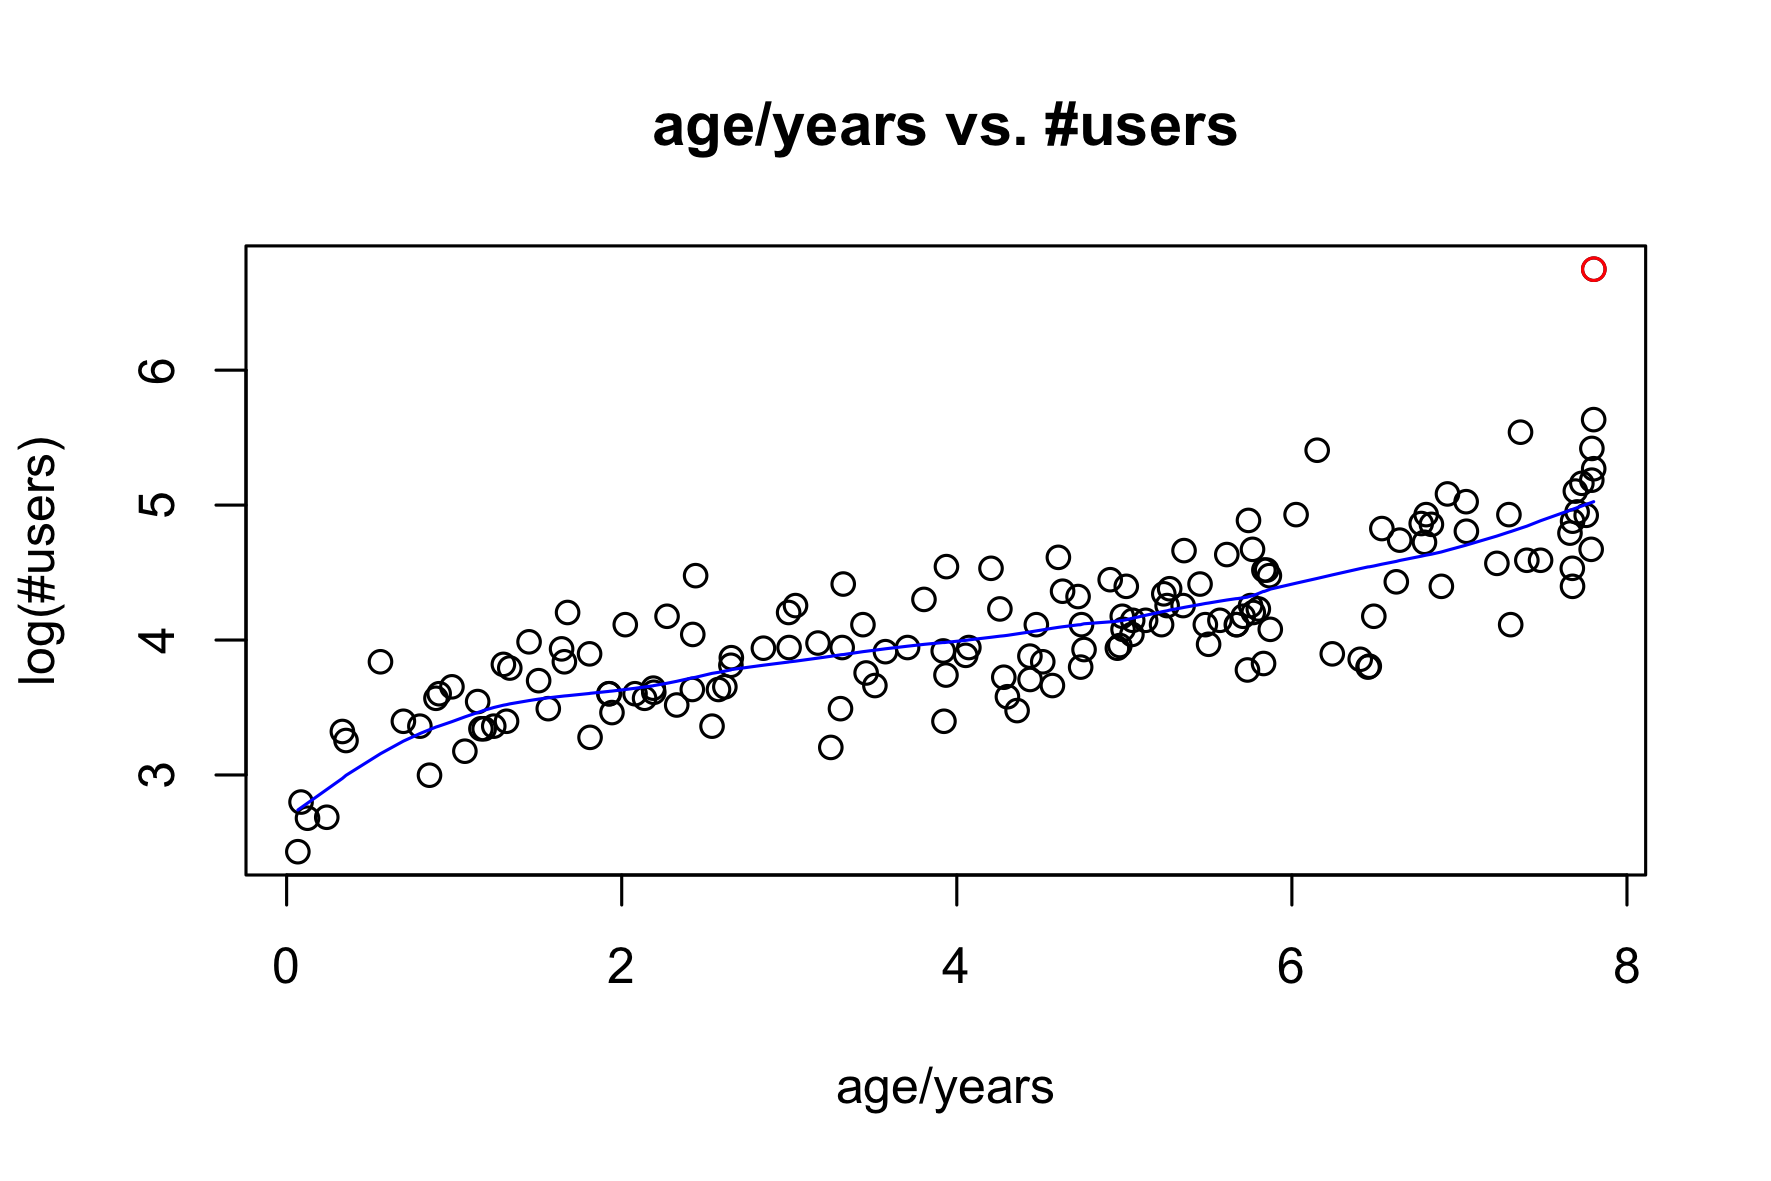
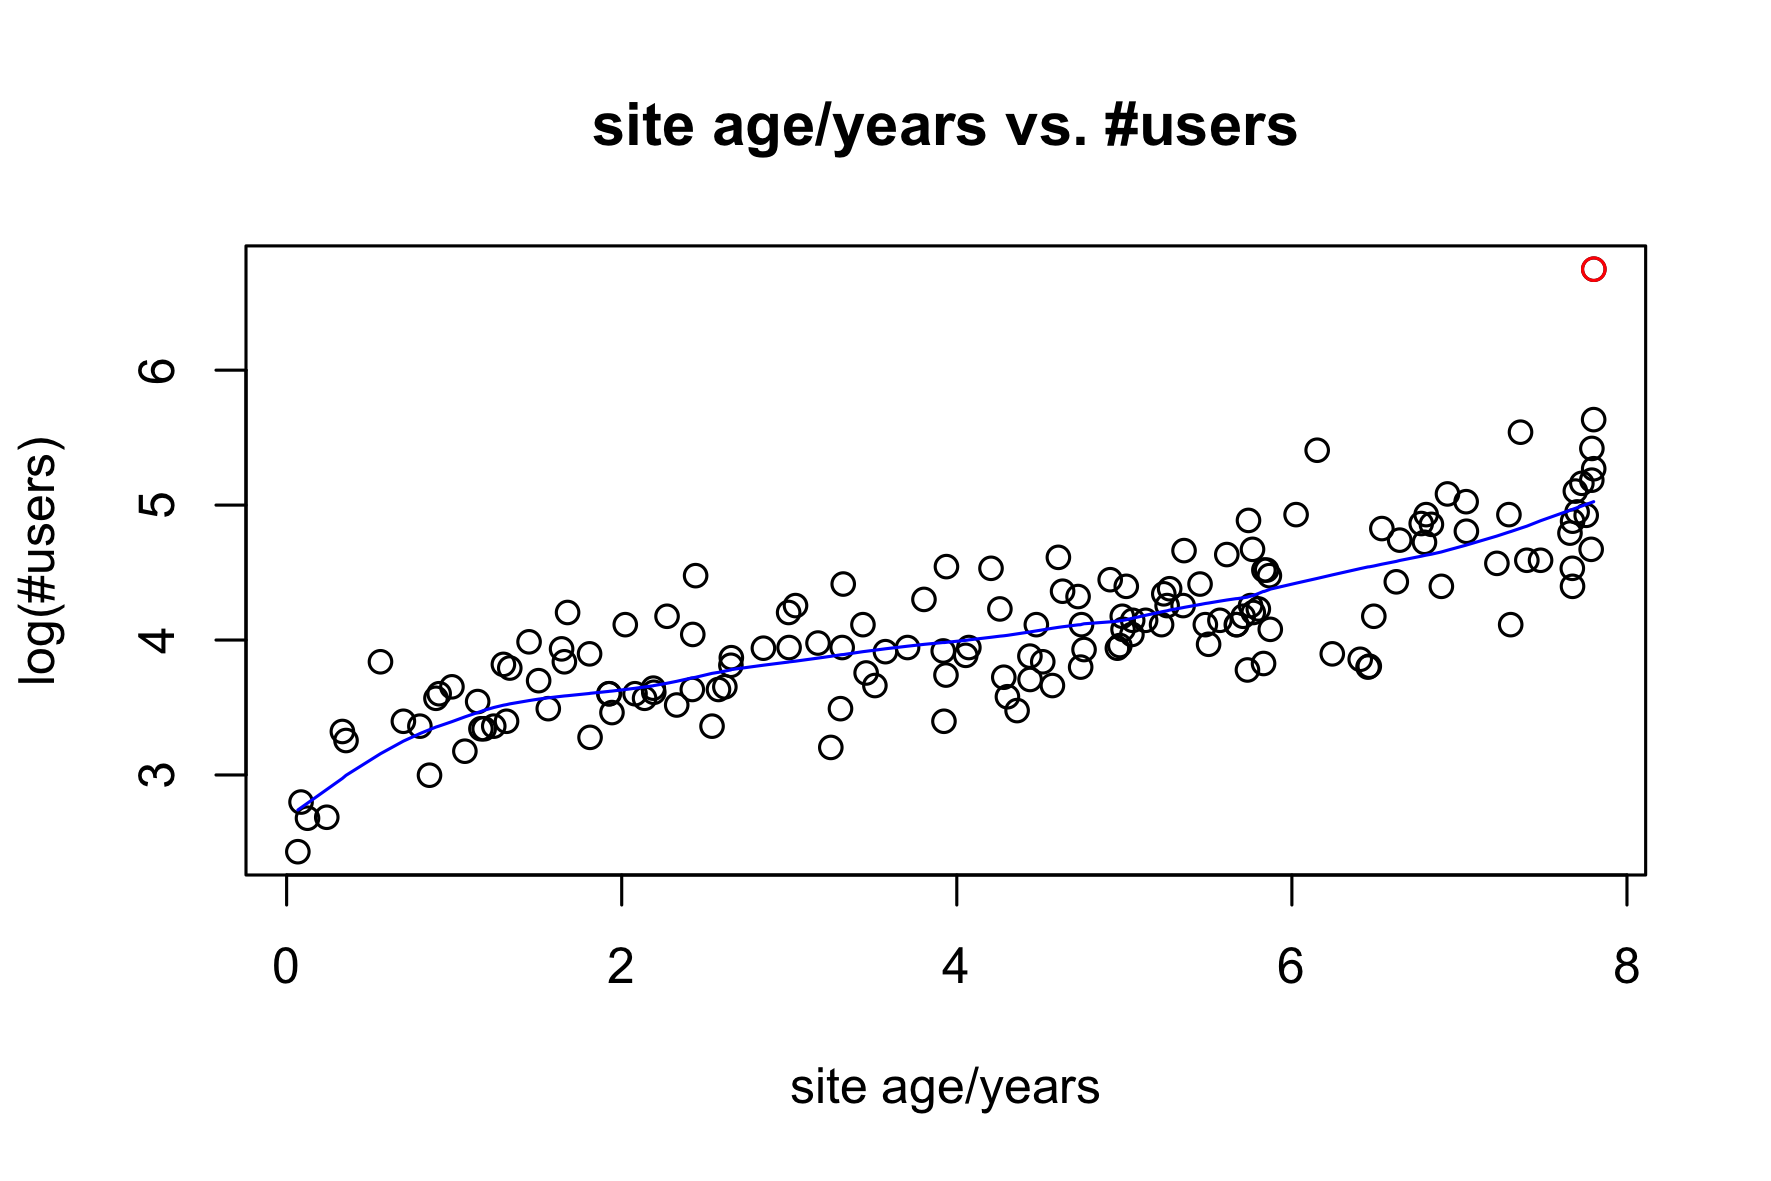
added two more graphs, extended discussion in README.

Changed region(s): [[0.3106, 0.0914, 0.7453, 0.1524], [0.4348, 0.884, 0.6211, 0.945]]

diff --git a/README.md b/README.md
@@ -67,6 +67,9 @@ means having about 2.2 times more answers.
 <center>
 <img src="images/answers-users.png" alt="#answers vs. #users" width=500 />
 </center>
+The linearity of #answers vs. #questions implies that the number of questions
+has a similar relation to the number of users. This seems to imply that
+a level of activity can only be maintained by the influx of new users.
 
 ### Number of Tags ###
 As can be expected, a site with more questions asked also has more tags.
@@ -82,10 +85,39 @@ and the number of users.
 <img src="images/answered-users.png" alt="%answered vs. #questions" width=500 />
 </center>
 
-### Site age vs. #users ###
+### #Users vs. site age  ###
 Site age is the time (in years) since the first posted question.
 <center>
 <img src="images/age-users.png" alt="%answered vs. #questions" width=500 />
+</center>
+Note that the stackoverflow site is not included in the regression.
+
+### #Site growth rate vs. site age ###
+<center>
+<img src="images/age-growth.png" alt="site growth (questions) vs. site age" width=500 />
+</center>
+
+**Note**: New Stackexchange sites go through three phases before they are accepted. (See [http://area51.stackexchange.com](http://area51.stackexchange.com/faq).)
+
+1. During the "**definition**" phase hypothetical questions are proposed and votes are cast whether or not they are good questions for the site.
+2. In the "**commitment**" phase a petition for the site's creation is presented and interested users are asked to digitally sign the proposal.
+3. In the "**beta**" phase the site goes live on a probationary basis to see if people use it. If the site does not get used, it will be deleted. 
+
+This means that a site goes into beta already many questions pre-defined,
+and therefore disproportianately many questions are asked shortly after going
+into beta. In order to account for this (in a very crude manner)
+the growth rate is defined as 
+
+<center>growth rate = log<sub>10</sub>(#questions / (age+1/12)),</center>
+
+i.e. the age is set to be effectilvely one month more than nominally.
+
+It is interesing to plot the same graph with the number of users as a measure
+of site growth. The older sites had a higher average user growth rate than the 
+younger sites.
+
+<center>
+<img src="images/age-user-growth.png" alt="site growth (users) vs. site age" width=500 />
 </center>
 
 ## Directory structure ##
